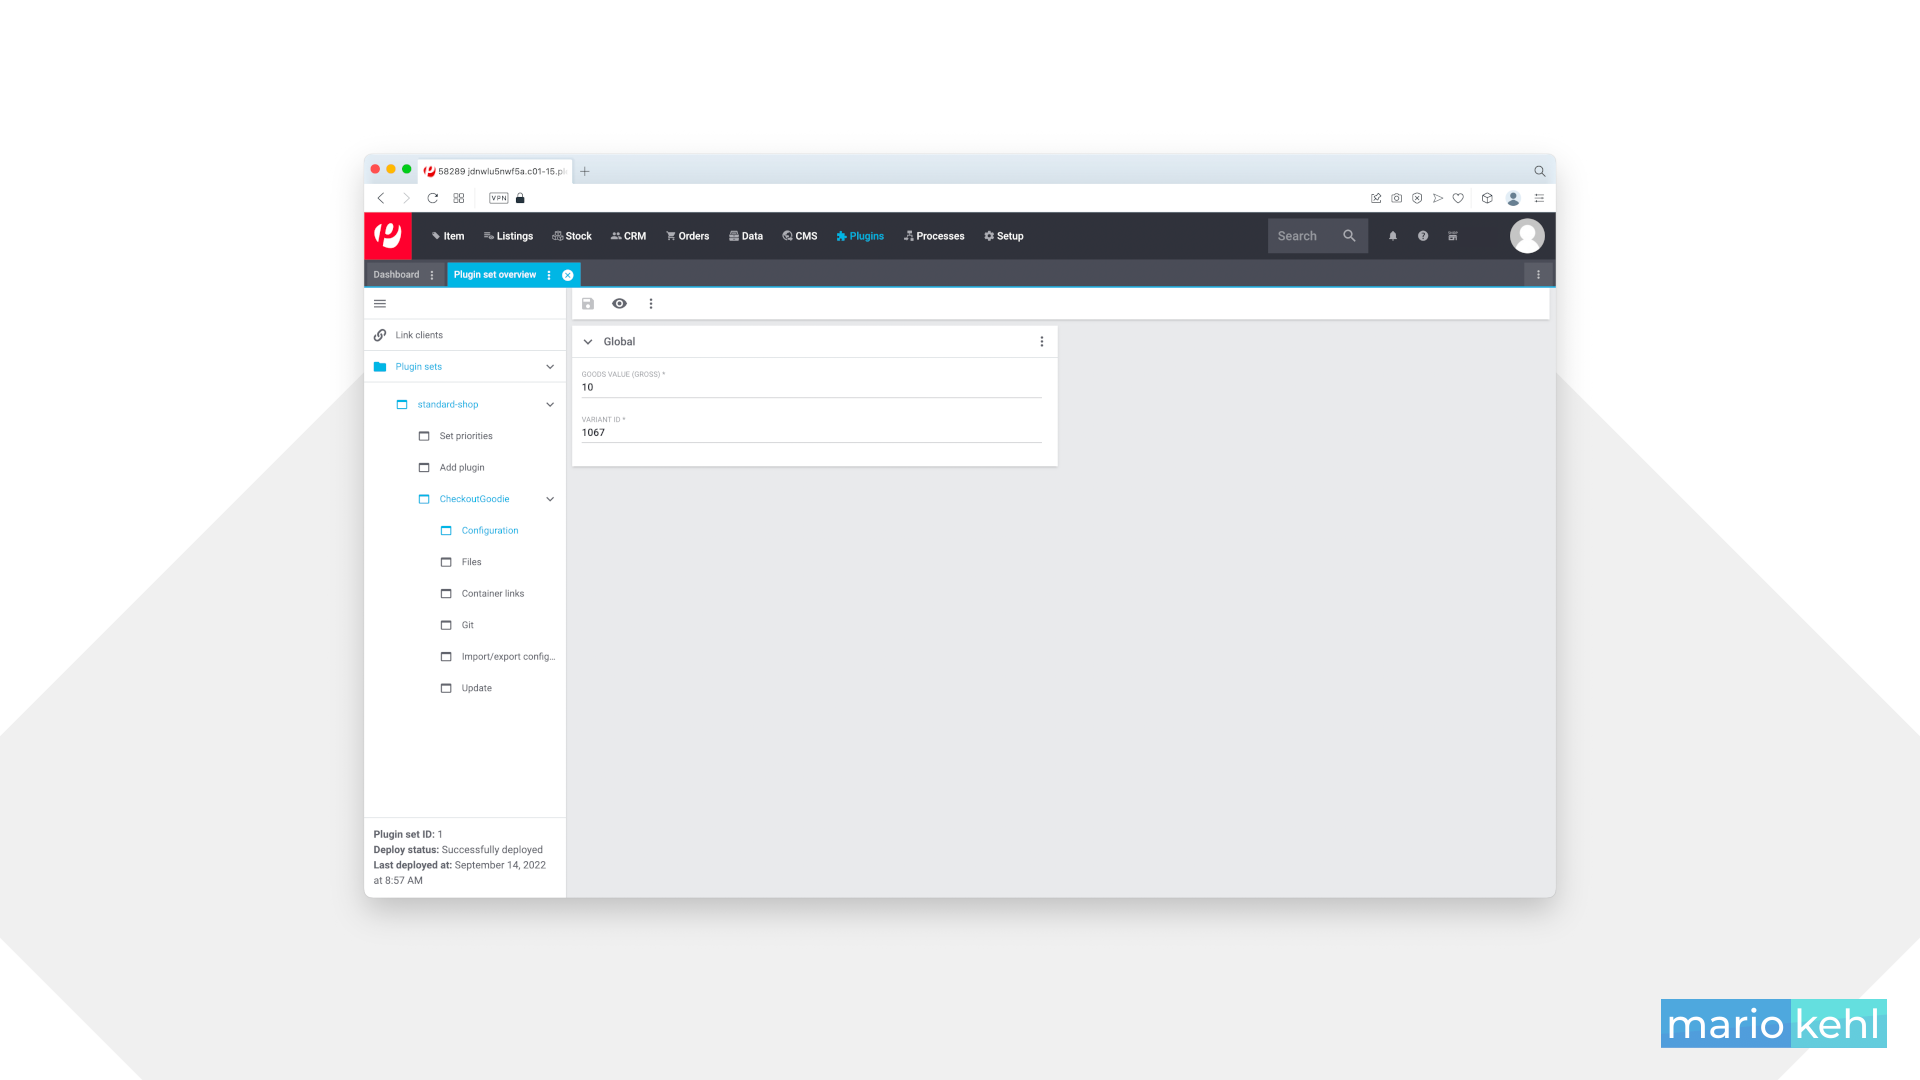
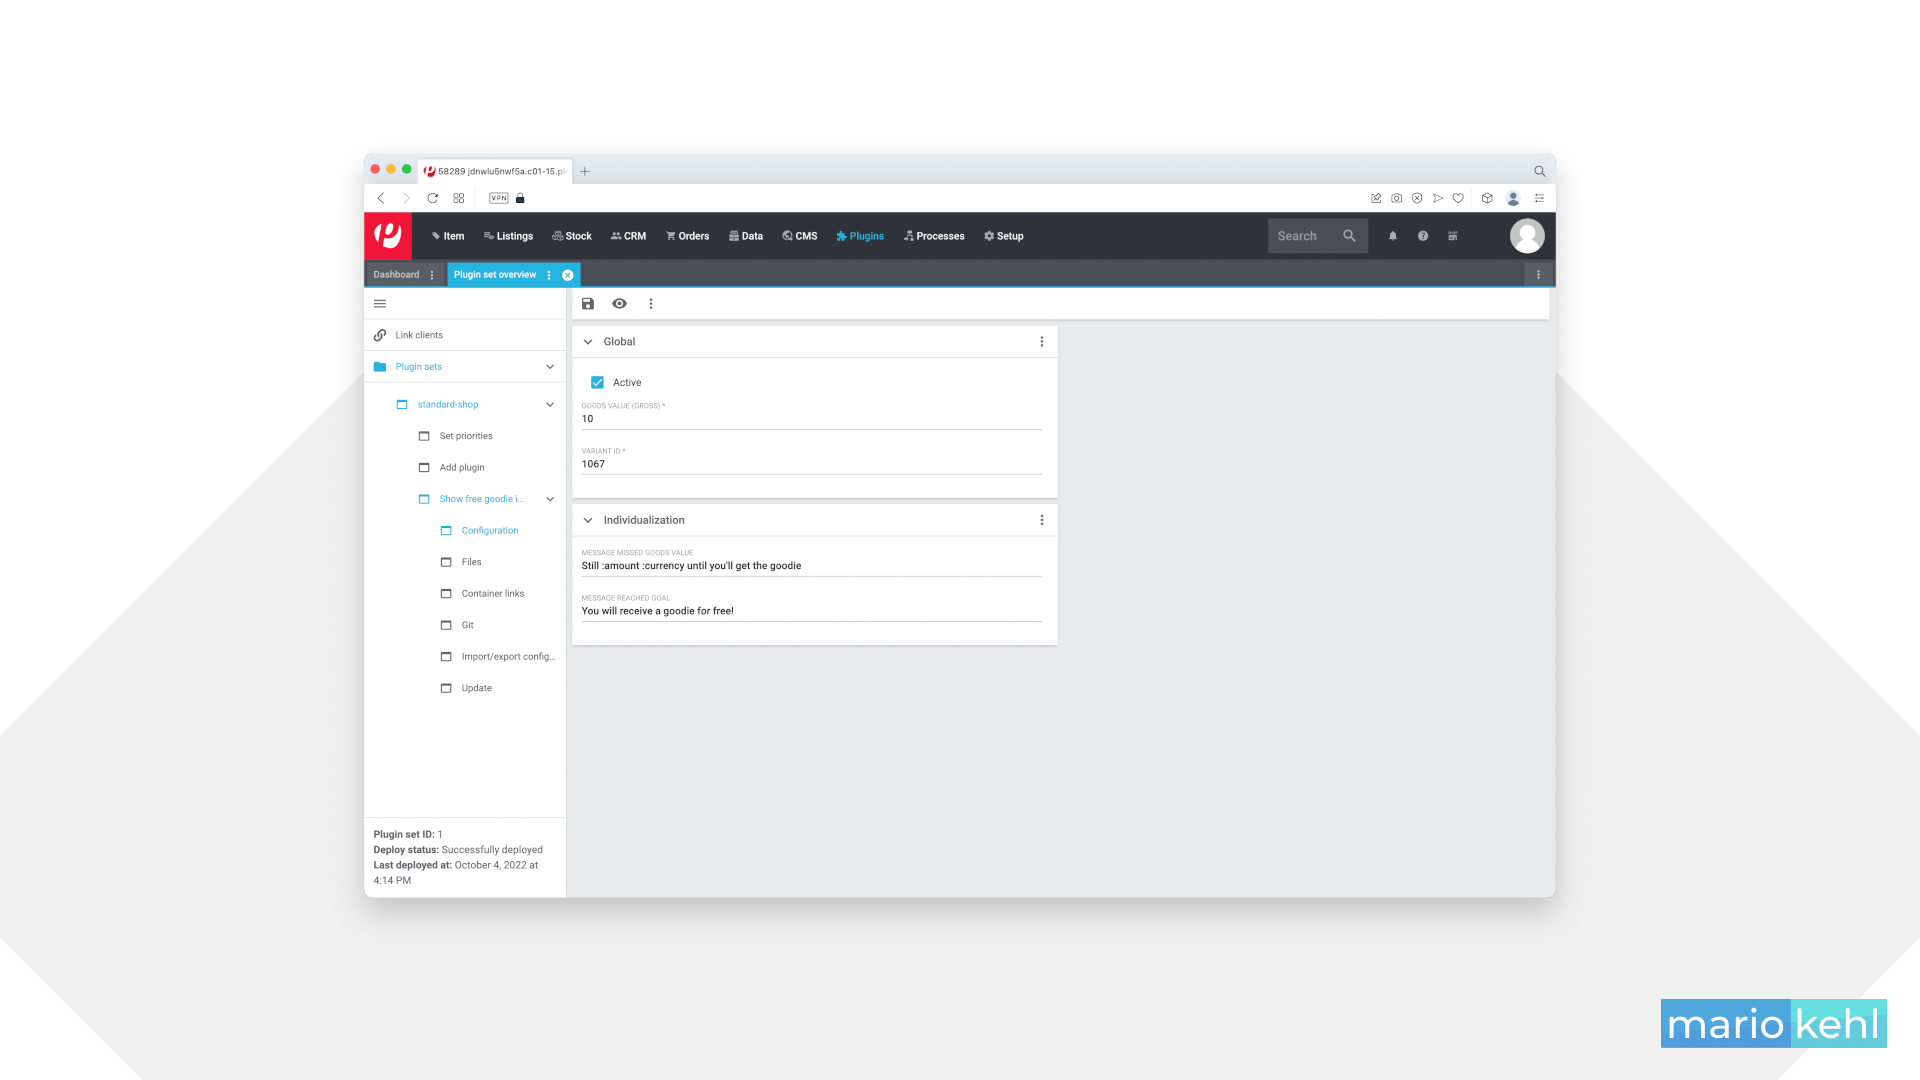
Fix screenshots and release notes of last version

diff --git a/meta/documents/changelog_de.md b/meta/documents/changelog_de.md
@@ -1,10 +1,15 @@
 # Versionshinweise für "Gratiszugabe im Warenkorb anzeigen"
 
+## v1.0.2 (05.10.2022)
+
+### Geändert
+- Vorschaubilder des Plugins hinsichtlich Plugin-Konfiguration aktualisiert und die Hinweise der letzten Version korrigiert
+
 ## v1.0.1 (30.09.2022)
 
 ### Hinzugefügt
 - Neue Checkbox **Aktiv** in der Plugin-Konfiguration für die Steuerung der Ausgabe
-- Die Nachrichten über der Fortschrittsanzeige sind jetzt indiviuell anpassbar
+- Die Nachrichten über der Fortschrittsanzeige sind jetzt ebenfalls in der Konfiguration unter **Individualisierung** anpassbar
 
 ### TODO
 - Überprüfe die Plugin-Konfiguration und setze den Schalter **Aktiv**, um die Ausgabe der Gratiszugabe zu aktivieren

diff --git a/meta/documents/changelog_en.md b/meta/documents/changelog_en.md
@@ -1,10 +1,15 @@
 # Release Notes for "Show free goodie in shopping cart"
 
+## v1.0.2 (2022-10-05)
+
+### Changed
+- Updated plugin thumbnails regarding plugin configuration and fixed release notes for last version
+
 ## v1.0.1 (2022-09-30)
 
 ### Added
 - New checkbox **Active** in the plugin configuration for controlling the output
-- The messages above the progress bar are now customizable
+- The messages above the progress bar are now also customizable in the configuration under **Individualization**
 
 ### TODO
 - Check the plugin configuration and set the **Active** switch to enable goodie output
